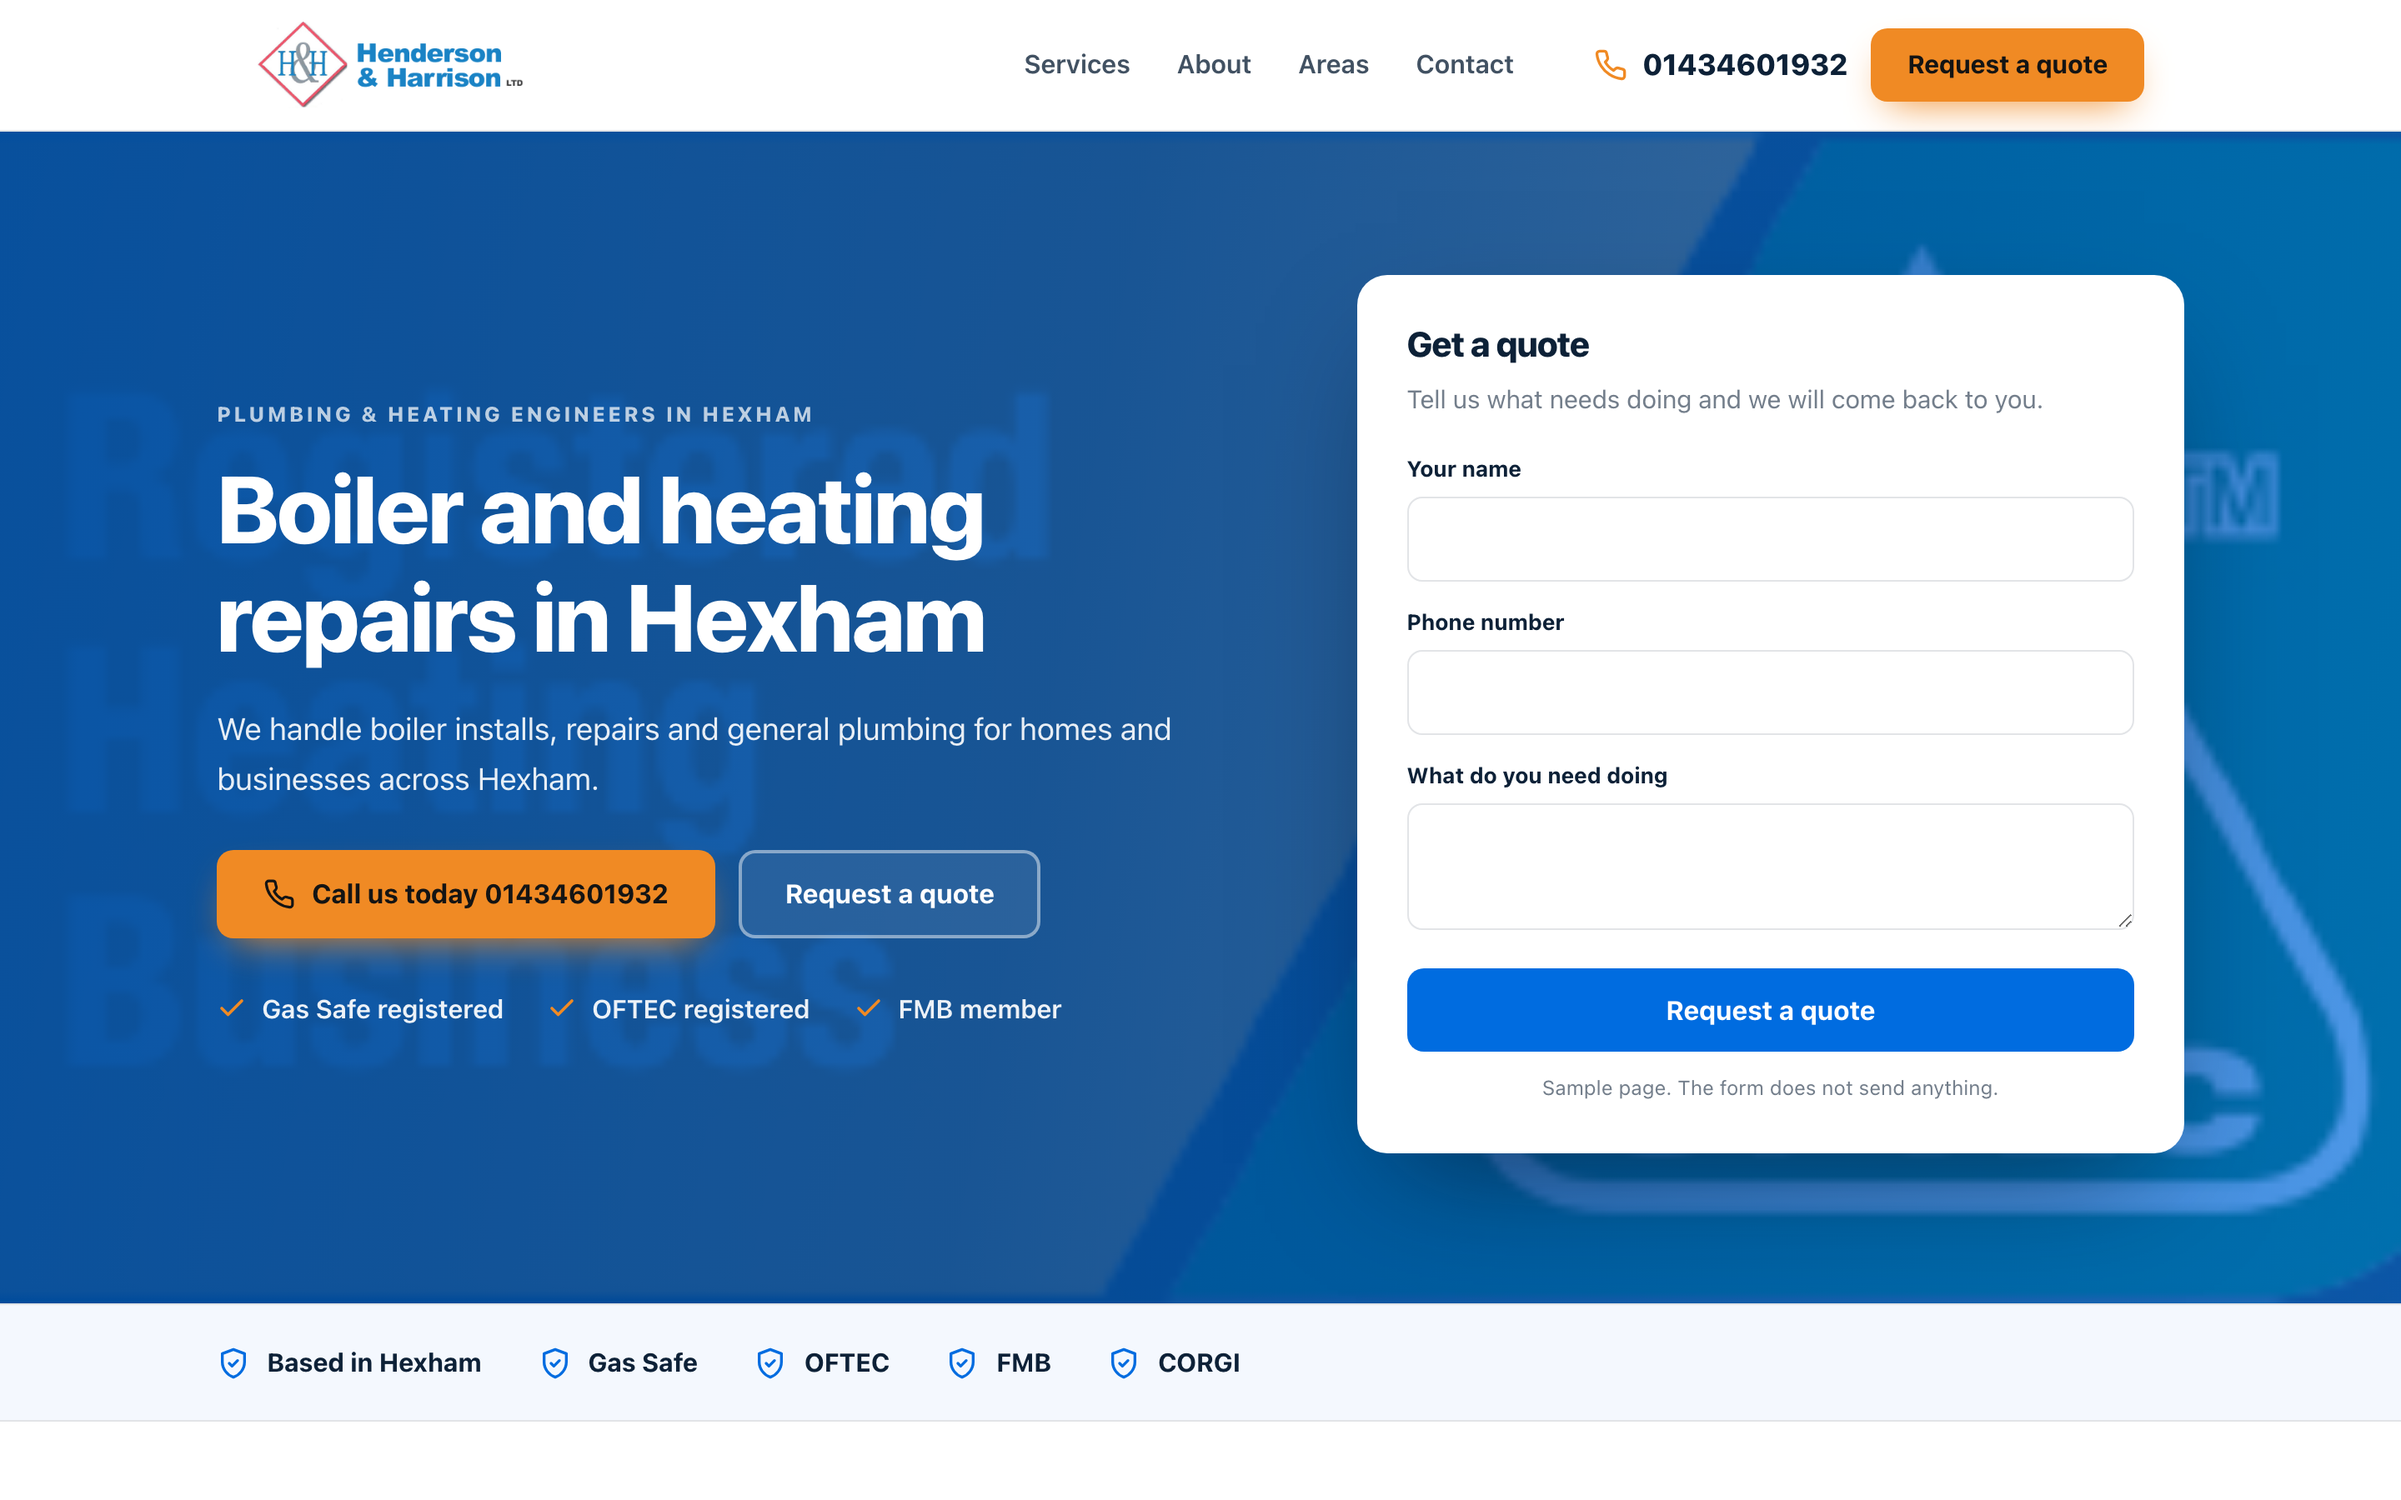
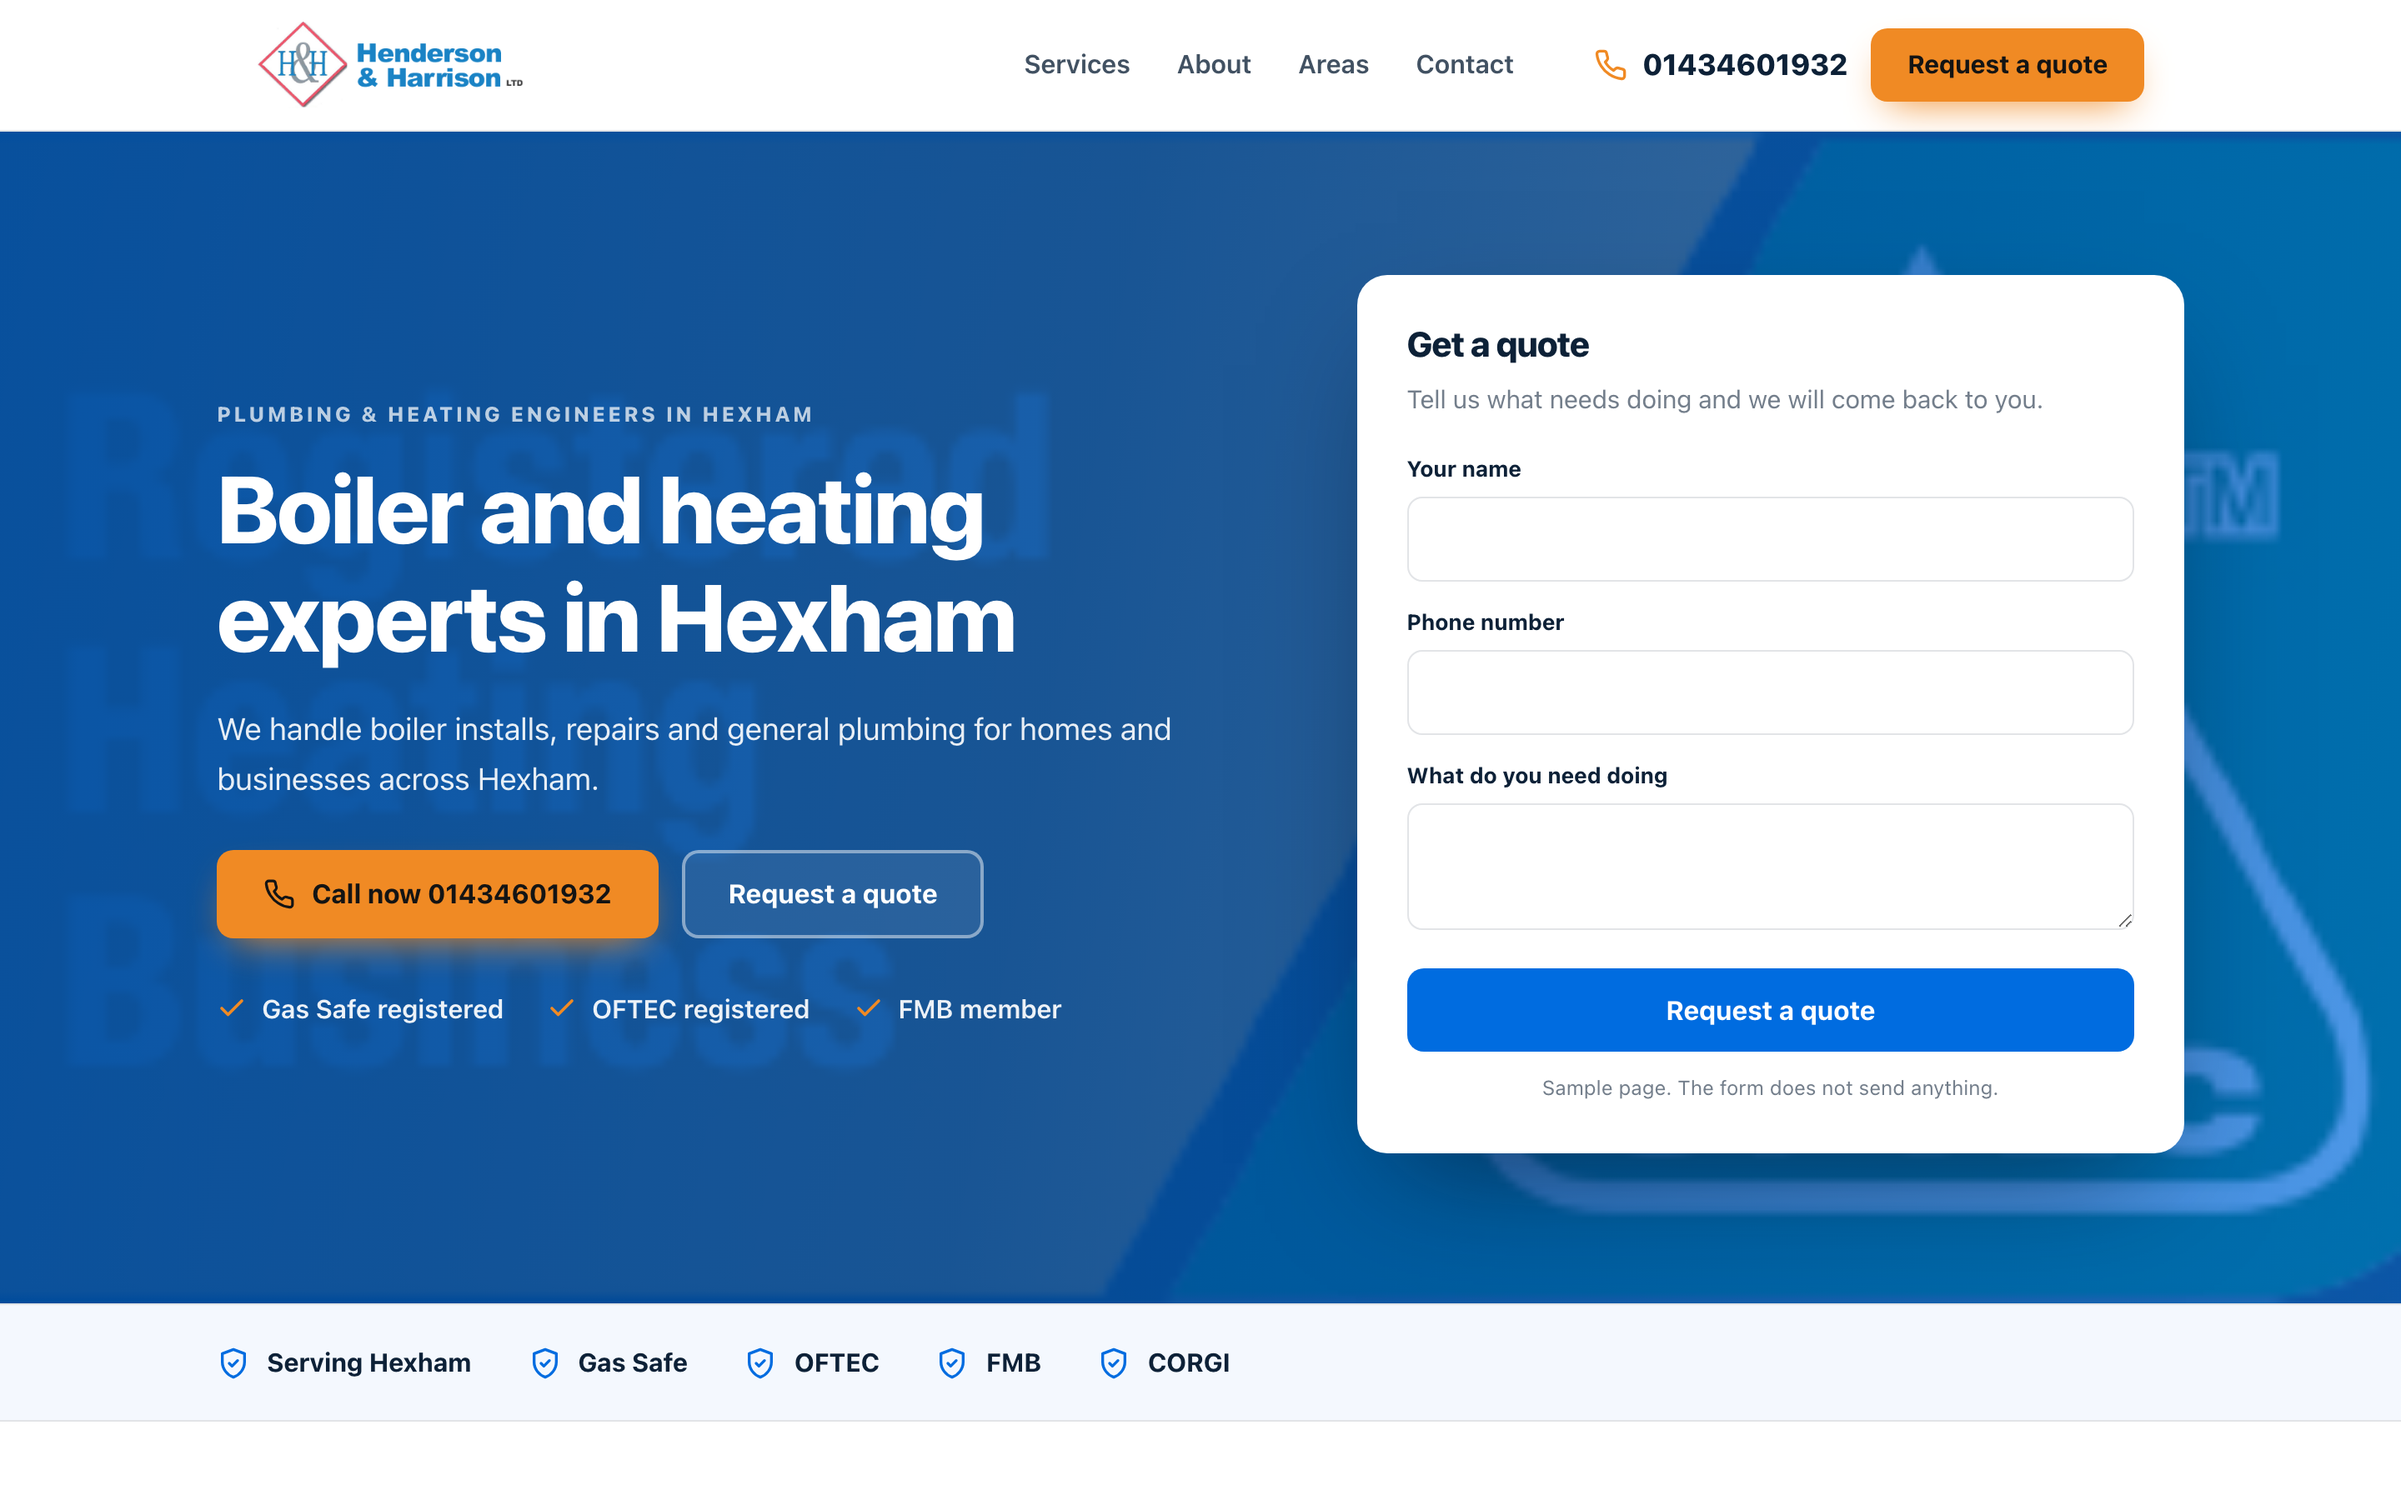
Sample homepage for Henderson & Harrison Ltd

diff --git a/docs/5392d50831/index.html b/docs/5392d50831/index.html
@@ -4,11 +4,11 @@
 <meta charset="utf-8">
 <meta name="viewport" content="width=device-width, initial-scale=1">
 <meta name="robots" content="noindex,nofollow">
-<title>Copyright 2018 | i-promote sample homepage</title>
+<title>Henderson &amp; Harrison Ltd sample homepage</title>
 <meta name="description" content="We handle boiler installs, repairs and general plumbing for homes and businesses across Hexham.">
 <link rel="canonical" href="https://markygff.github.io/aso-mockups/5392d50831/">
 <meta property="og:type" content="website">
-<meta property="og:title" content="Copyright 2018 | i-promote sample homepage">
+<meta property="og:title" content="Henderson &amp; Harrison Ltd sample homepage">
 <meta property="og:description" content="We handle boiler installs, repairs and general plumbing for homes and businesses across Hexham.">
 <meta property="og:url" content="https://markygff.github.io/aso-mockups/5392d50831/">
 <meta property="og:image" content="https://www.hendersonandharrison.com/images/oftec-registered.jpg"><style>
@@ -119,7 +119,7 @@ p{margin:0}
 <header class="header">
   <div class="wrap header-in">
     <div class="brand">
-<img src="https://www.hendersonandharrison.com/images/logo.png" alt="Copyright 2018 | i-promote logo">    </div>
+<img src="https://www.hendersonandharrison.com/images/logo.png" alt="Henderson &amp; Harrison Ltd logo">    </div>
     <nav class="nav">
       <span>Services</span><span>About</span><span>Areas</span><span>Contact</span>
     </nav>
@@ -135,10 +135,10 @@ p{margin:0}
   <div class="wrap hero-in">
     <div>
       <p class="eyebrow">Plumbing &amp; heating engineers in Hexham</p>
-      <h1>Boiler and heating repairs in Hexham</h1>
+      <h1>Boiler and heating experts in Hexham</h1>
       <p class="hero-sub">We handle boiler installs, repairs and general plumbing for homes and businesses across Hexham.</p>
       <div class="hero-actions">
-        <span class="btn btn-accent"><svg viewBox="0 0 24 24" fill="none" stroke="currentColor" stroke-width="2" stroke-linecap="round" stroke-linejoin="round" aria-hidden="true"><path d="M22 16.9v3a2 2 0 0 1-2.2 2 19.8 19.8 0 0 1-8.6-3.1 19.5 19.5 0 0 1-6-6 19.8 19.8 0 0 1-3.1-8.7A2 2 0 0 1 4.1 2h3a2 2 0 0 1 2 1.7c.1 1 .4 1.9.7 2.8a2 2 0 0 1-.5 2.1L8.1 9.9a16 16 0 0 0 6 6l1.3-1.2a2 2 0 0 1 2.1-.5c.9.3 1.8.6 2.8.7a2 2 0 0 1 1.7 2z"/></svg>Call us today 01434601932</span>
+        <span class="btn btn-accent"><svg viewBox="0 0 24 24" fill="none" stroke="currentColor" stroke-width="2" stroke-linecap="round" stroke-linejoin="round" aria-hidden="true"><path d="M22 16.9v3a2 2 0 0 1-2.2 2 19.8 19.8 0 0 1-8.6-3.1 19.5 19.5 0 0 1-6-6 19.8 19.8 0 0 1-3.1-8.7A2 2 0 0 1 4.1 2h3a2 2 0 0 1 2 1.7c.1 1 .4 1.9.7 2.8a2 2 0 0 1-.5 2.1L8.1 9.9a16 16 0 0 0 6 6l1.3-1.2a2 2 0 0 1 2.1-.5c.9.3 1.8.6 2.8.7a2 2 0 0 1 1.7 2z"/></svg>Call now 01434601932</span>
         <span class="btn btn-ghost">Request a quote</span>
       </div>
       <ul class="hero-bullets">
@@ -158,7 +158,7 @@ p{margin:0}
 
 <div class="strip">
   <div class="wrap strip-in">
-    <div class="strip-item"><svg viewBox="0 0 24 24" fill="none" stroke="currentColor" stroke-width="2" stroke-linecap="round" stroke-linejoin="round" aria-hidden="true"><path d="M12 2 4 5v6c0 5 3.4 9.4 8 11 4.6-1.6 8-6 8-11V5z"/><path d="m9 12 2 2 4-4"/></svg><span>Based in Hexham</span></div>
+    <div class="strip-item"><svg viewBox="0 0 24 24" fill="none" stroke="currentColor" stroke-width="2" stroke-linecap="round" stroke-linejoin="round" aria-hidden="true"><path d="M12 2 4 5v6c0 5 3.4 9.4 8 11 4.6-1.6 8-6 8-11V5z"/><path d="m9 12 2 2 4-4"/></svg><span>Serving Hexham</span></div>
     <div class="strip-item"><svg viewBox="0 0 24 24" fill="none" stroke="currentColor" stroke-width="2" stroke-linecap="round" stroke-linejoin="round" aria-hidden="true"><path d="M12 2 4 5v6c0 5 3.4 9.4 8 11 4.6-1.6 8-6 8-11V5z"/><path d="m9 12 2 2 4-4"/></svg><span>Gas Safe</span></div>
     <div class="strip-item"><svg viewBox="0 0 24 24" fill="none" stroke="currentColor" stroke-width="2" stroke-linecap="round" stroke-linejoin="round" aria-hidden="true"><path d="M12 2 4 5v6c0 5 3.4 9.4 8 11 4.6-1.6 8-6 8-11V5z"/><path d="m9 12 2 2 4-4"/></svg><span>OFTEC</span></div>
     <div class="strip-item"><svg viewBox="0 0 24 24" fill="none" stroke="currentColor" stroke-width="2" stroke-linecap="round" stroke-linejoin="round" aria-hidden="true"><path d="M12 2 4 5v6c0 5 3.4 9.4 8 11 4.6-1.6 8-6 8-11V5z"/><path d="m9 12 2 2 4-4"/></svg><span>FMB</span></div>
@@ -170,29 +170,29 @@ p{margin:0}
   <div class="wrap">
     <div class="services-head">
       <p class="eyebrow">What we do</p>
-      <h2>Copyright 2018 | i-promote, Hexham</h2>
+      <h2>Henderson &amp; Harrison Ltd, Hexham</h2>
       <p>We handle boiler installs, repairs and general plumbing for homes and businesses across Hexham.</p>
     </div>
     <div class="grid">
       <article class="card">
         <div class="icon"><svg viewBox="0 0 24 24" fill="none" stroke="currentColor" stroke-width="2" stroke-linecap="round" stroke-linejoin="round" aria-hidden="true"><path d="M14.7 6.3a4 4 0 0 0 5.3 5.3l-8 8a3 3 0 0 1-4.2-4.2z"/><path d="m14.7 6.3 3-3"/></svg></div>
         <h3>Boiler installation</h3>
-        <p>New boiler fitted and set up properly, gas, oil or LPG.</p>
+        <p>We fit new gas, oil and LPG boilers.</p>
       </article>
       <article class="card">
         <div class="icon"><svg viewBox="0 0 24 24" fill="none" stroke="currentColor" stroke-width="2" stroke-linecap="round" stroke-linejoin="round" aria-hidden="true"><path d="M13 2 4 14h7l-1 8 9-12h-7z"/></svg></div>
         <h3>Boiler repairs</h3>
-        <p>We fix breakdowns and get your heating back on.</p>
+        <p>We diagnose and fix boiler breakdowns.</p>
       </article>
       <article class="card">
         <div class="icon"><svg viewBox="0 0 24 24" fill="none" stroke="currentColor" stroke-width="2" stroke-linecap="round" stroke-linejoin="round" aria-hidden="true"><path d="M3 10.5 12 3l9 7.5"/><path d="M5 9.5V21h14V9.5"/><path d="M10 21v-6h4v6"/></svg></div>
         <h3>Central heating installations</h3>
-        <p>Full central heating systems fitted for your home.</p>
+        <p>We install central heating systems in your home.</p>
       </article>
       <article class="card">
         <div class="icon"><svg viewBox="0 0 24 24" fill="none" stroke="currentColor" stroke-width="2" stroke-linecap="round" stroke-linejoin="round" aria-hidden="true"><path d="M4 20 15 9"/><path d="m14 4 6 6-3 3-6-6z"/><path d="m3 15 6 6"/></svg></div>
-        <h3>Gas safety inspections</h3>
-        <p>Inspections and safety checks carried out by Gas Safe engineers.</p>
+        <h3>General plumbing</h3>
+        <p>We handle general plumbing jobs, big or small.</p>
       </article>
     </div>
   </div>
@@ -200,7 +200,7 @@ p{margin:0}
 
 <footer class="footer">
   <div class="wrap footer-in">
-    <span>Sample built for Copyright 2018 | i-promote from your public website. Not live. Tell us and we delete it.</span>
+    <span>Sample built for Henderson &amp; Harrison Ltd from your public website. Not live. Tell us and we delete it.</span>
     <span>hendersonandharrison.com</span>
   </div>
 </footer>
